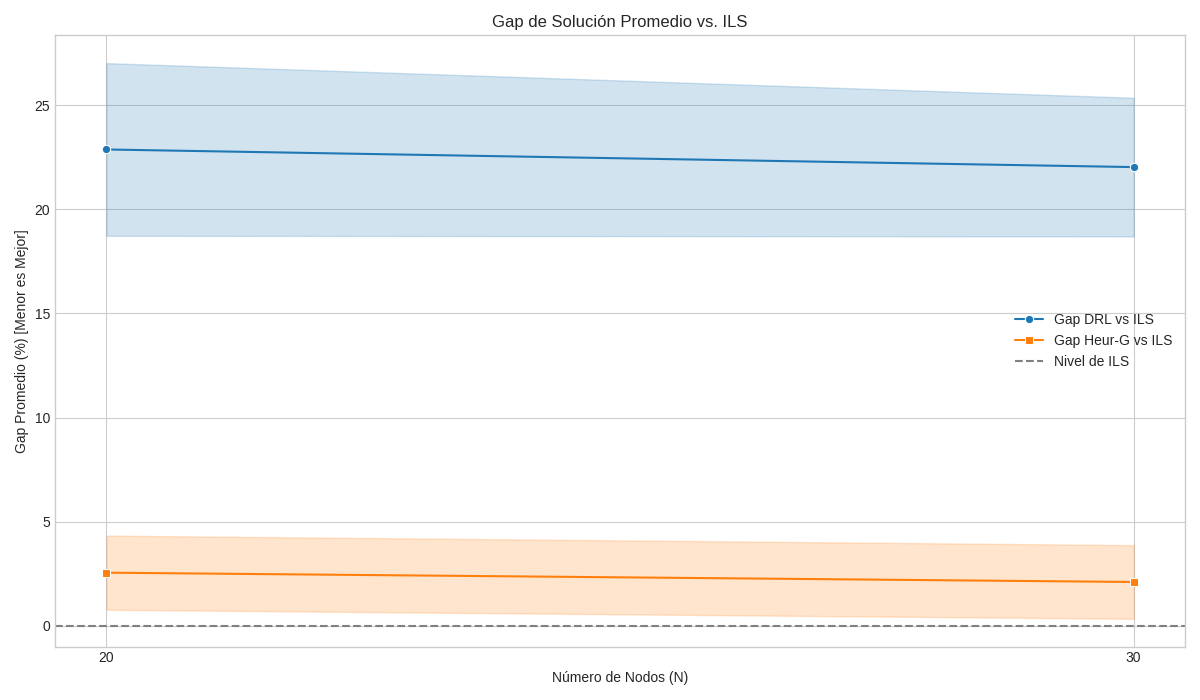
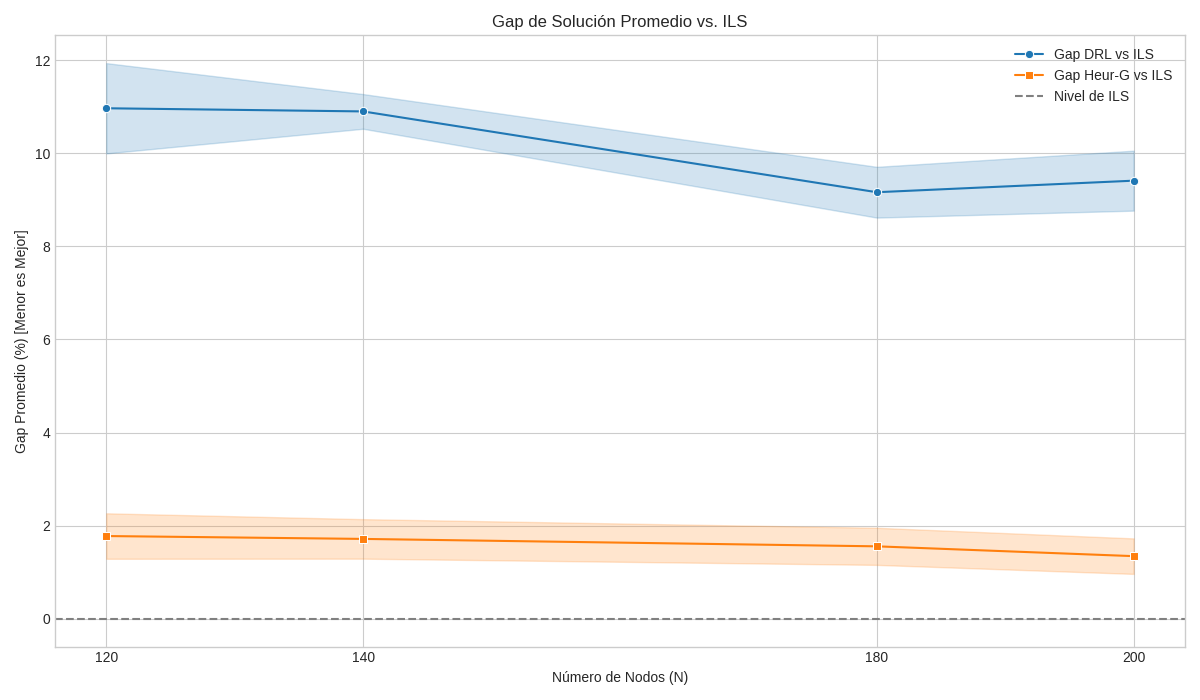
implementación otras arquitecturas gat

diff --git a/src/train_drl_curriculum.py b/src/train_drl_curriculum.py
@@ -1,0 +1,145 @@
+# train_drl.py (con Curriculum Learning)
+
+import torch
+import torch.optim as optim
+from torch.distributions import Categorical
+import numpy as np
+from tqdm import tqdm
+import torch.nn.functional as F
+
+from MAXCUT import MaxCutInstance, generate_random_instance
+from drl_environment import MaxCutDRLEnv
+from drl_model import ActorCriticGAT,ActorCriticGAT_V2,ActorCriticGAT_V3 # O ActorCriticGAT_V2, ActorCriticGAT_V3
+
+# --- Hiperparámetros del Algoritmo ---
+LEARNING_RATE = 3e-5
+GAMMA = 0.99
+ENTROPY_BETA = 0.015
+VALUE_LOSS_COEFF = 0.6
+
+# --- Estrategia de Curriculum Learning ---
+# Formato: (numero_de_episodios_para_la_etapa, tamaño_de_nodos_en_la_etapa)
+CURRICULUM = [
+    (1500, 20),  # Etapa 1: 1500 episodios con grafos de 20 nodos
+    (1500, 30),  # Etapa 2: 1500 episodios con grafos de 30 nodos
+    (2000, 40),   # Etapa 3: 2000 episodios con grafos de 40 nodos. Más episodios para la etapa más difícil.
+    (2000, 50),
+    (3000, 60)
+]
+DENSITY = 0.8 # Densidad de los grafos generados
+
+# --- Setup ---
+device = torch.device("cuda" if torch.cuda.is_available() else "cpu")
+# Elige aquí la arquitectura que quieres entrenar con el currículo
+model = ActorCriticGAT_V3().to(device) 
+optimizer = optim.Adam(model.parameters(), lr=LEARNING_RATE)
+
+print(f"Iniciando entrenamiento con Curriculum Learning en: {device}")
+print(f"Modelo: {model}")
+print(f"Currículo: {CURRICULUM}")
+
+# --- Bucle de Entrenamiento con Currículo ---
+episode_rewards = []
+global_episode_count = 0
+
+# Bucle externo: itera sobre las etapas del currículo
+for num_episodes_stage, num_nodes_stage in CURRICULUM:
+    print(f"\n--- Iniciando Etapa del Currículo: {num_episodes_stage} episodios con N={num_nodes_stage} ---")
+    
+    # Bucle interno: itera sobre los episodios de la etapa actual
+    for episode_in_stage in tqdm(range(num_episodes_stage), desc=f"Etapa N={num_nodes_stage}"):
+        
+        # Generar una nueva instancia con el tamaño de la etapa actual
+        weights = generate_random_instance(num_nodes_stage, density=DENSITY)
+        instance = MaxCutInstance(weights)
+        env = MaxCutDRLEnv(instance)
+        
+        graph_repr = env.reset()
+        
+        # Listas para almacenar los resultados del episodio
+        log_probs = []
+        values = []
+        rewards = []
+        
+        # --- Ejecutar un episodio ---
+        done = False
+        while not done:
+            # Mover datos del grafo al dispositivo
+            x, edge_index, edge_weight = graph_repr
+            x, edge_index, edge_weight = x.to(device), edge_index.to(device), edge_weight.to(device)
+
+            # Obtener el índice del nodo a decidir
+            node_idx = env.get_current_node_to_assign()
+            
+            # Pasar por el modelo para obtener política y valor
+            logits, value = model(x, edge_index, edge_weight, node_idx)
+            
+            # Crear una distribución de probabilidad y muestrear una acción
+            prob_dist = Categorical(logits=logits)
+            action = prob_dist.sample() # Muestreo estocástico
+            
+            # Guardar log-probabilidad y valor
+            log_probs.append(prob_dist.log_prob(action))
+            values.append(value)
+            
+            # Ejecutar la acción en el entorno
+            graph_repr, reward, done = env.step(action.item())
+            rewards.append(reward)
+
+        # --- Fin del episodio: Calcular Pérdida y Actualizar Pesos ---
+        
+        # 1. Calcular Retornos Descontados (G_t)
+        returns = []
+        discounted_reward = 0
+        for r in reversed(rewards):
+            discounted_reward = r + GAMMA * discounted_reward
+            returns.insert(0, discounted_reward)
+        returns = torch.tensor(returns, dtype=torch.float32).to(device)
+        
+        # Normalizar retornos para mayor estabilidad
+        returns = (returns - returns.mean()) / (returns.std() + 1e-8)
+        
+        # 2. Convertir listas a tensores
+        log_probs = torch.stack(log_probs)
+        values = torch.stack(values).squeeze(-1) # Usar squeeze(-1) para evitar errores si el batch es de 1
+
+        # 3. Calcular Ventaja (Advantage) A_t = G_t - V(s_t)
+        advantages = returns - values
+        
+        # 4. Calcular la Pérdida del Actor (Política)
+        actor_loss = -(log_probs * advantages.detach()).mean()
+
+        # 5. Calcular la Pérdida del Crítico (Valor)
+        critic_loss = F.smooth_l1_loss(values, returns)
+        
+        # 6. Calcular la Pérdida de Entropía
+        # prob_dist es la del último paso, necesitamos calcular sobre todas las acciones
+        entropies = prob_dist.entropy()
+        entropy_loss = -entropies.mean()
+
+        # 7. Calcular la Pérdida Total
+        loss = actor_loss + VALUE_LOSS_COEFF * critic_loss + ENTROPY_BETA * entropy_loss
+        
+        # 8. Backpropagation y Optimización
+        optimizer.zero_grad()
+        loss.backward()
+        optimizer.step()
+        
+        # --- Logging ---
+        total_reward = sum(rewards)
+        episode_rewards.append(total_reward)
+        global_episode_count += 1
+        
+        # Imprimir logs cada 50 episodios globales
+        if global_episode_count % 50 == 0:
+            avg_reward = np.mean(episode_rewards[-50:])
+            print(f"Episodio Global {global_episode_count}: Etapa N={num_nodes_stage}, "
+                  f"Loss Total={loss.item():.4f}, "
+                  f"Recompensa Total={total_reward:.2f}, "
+                  f"Recompensa Media (últimos 50)={avg_reward:.2f}")
+
+print("\n--- Entrenamiento Finalizado ---")
+
+# Guardar el modelo entrenado final
+torch.save(model.state_dict(), "drl_curriculum_model.pth")
+print("Modelo entrenado con currículo guardado en 'drl_curriculum_model.pth'")

diff --git a/src/drl_model.py b/src/drl_model.py
@@ -3,7 +3,7 @@
 import torch
 import torch.nn as nn
 import torch.nn.functional as F
-from torch_geometric.nn import GATv2Conv # GATv2 es a menudo más estable que GAT
+from torch_geometric.nn import GATv2Conv, LayerNorm, global_mean_pool # GATv2 es a menudo más estable que GAT
 from drl_features import NODE_FEATURE_DIM
 
 class ActorCriticGAT(nn.Module):
@@ -70,3 +70,108 @@ class ActorCriticGAT(nn.Module):
         state_value = self.value_head(decision_node_embedding)
         
         return action_logits, state_value
+    
+    
+class ActorCriticGAT_V2(nn.Module):
+    """
+    Versión 2: Modelo más profundo con 3 capas GAT y LayerNorm para estabilidad.
+    """
+    def __init__(self, input_dim=NODE_FEATURE_DIM, gat_hidden_dim=128, num_heads=4, output_mlp_dim=128):
+        super(ActorCriticGAT_V2, self).__init__()
+
+        # --- Codificador GAT más profundo ---
+        self.gat1 = GATv2Conv(input_dim, gat_hidden_dim, heads=num_heads, concat=True, dropout=0.1, edge_dim=1)
+        self.norm1 = LayerNorm(gat_hidden_dim * num_heads)
+        
+        self.gat2 = GATv2Conv(gat_hidden_dim * num_heads, gat_hidden_dim, heads=num_heads, concat=True, dropout=0.1, edge_dim=1)
+        self.norm2 = LayerNorm(gat_hidden_dim * num_heads)
+
+        self.gat3 = GATv2Conv(gat_hidden_dim * num_heads, gat_hidden_dim, heads=1, concat=False, dropout=0.1, edge_dim=1)
+        self.norm3 = LayerNorm(gat_hidden_dim)
+
+        # --- Cabezas con mayor capacidad ---
+        self.policy_head = nn.Sequential(
+            nn.Linear(gat_hidden_dim, output_mlp_dim),
+            nn.ReLU(),
+            nn.Linear(output_mlp_dim, 2)
+        )
+        self.value_head = nn.Sequential(
+            nn.Linear(gat_hidden_dim, output_mlp_dim),
+            nn.ReLU(),
+            nn.Linear(output_mlp_dim, 1)
+        )
+
+    def forward(self, x, edge_index, edge_weight, node_to_assign_idx):
+        # Capa 1
+        x = self.gat1(x, edge_index, edge_attr=edge_weight)
+        x = self.norm1(x)
+        x = F.elu(x)
+        x = F.dropout(x, p=0.1, training=self.training)
+        
+        # Capa 2
+        x = self.gat2(x, edge_index, edge_attr=edge_weight)
+        x = self.norm2(x)
+        x = F.elu(x)
+        x = F.dropout(x, p=0.1, training=self.training)
+        
+        # Capa 3
+        node_embeddings = self.gat3(x, edge_index, edge_attr=edge_weight)
+        node_embeddings = self.norm3(node_embeddings)
+
+        decision_node_embedding = node_embeddings[node_to_assign_idx]
+        
+        action_logits = self.policy_head(decision_node_embedding)
+        state_value = self.value_head(decision_node_embedding)
+        
+        return action_logits, state_value
+    
+    
+# En drl_model.py, añade esta otra clase
+
+class ActorCriticGAT_V3(nn.Module):
+    """
+    Versión 3: Modelo que usa un contexto global explícito para la decisión.
+    """
+    def __init__(self, input_dim=NODE_FEATURE_DIM, gat_hidden_dim=128, num_heads=4, output_mlp_dim=64):
+        super(ActorCriticGAT_V3, self).__init__()
+
+        # Codificador (igual al original)
+        self.gat1 = GATv2Conv(input_dim, gat_hidden_dim, heads=num_heads, concat=True, dropout=0.1, edge_dim=1)
+        self.gat2 = GATv2Conv(gat_hidden_dim * num_heads, gat_hidden_dim, heads=1, concat=False, dropout=0.1, edge_dim=1)
+
+        # La entrada a las cabezas ahora es el doble de grande (embedding de nodo + embedding de grafo)
+        decoder_input_dim = gat_hidden_dim * 2
+
+        self.policy_head = nn.Sequential(
+            nn.Linear(decoder_input_dim, output_mlp_dim),
+            nn.ReLU(),
+            nn.Linear(output_mlp_dim, 2)
+        )
+        self.value_head = nn.Sequential(
+            nn.Linear(decoder_input_dim, output_mlp_dim),
+            nn.ReLU(),
+            nn.Linear(output_mlp_dim, 1)
+        )
+
+    def forward(self, x, edge_index, edge_weight, node_to_assign_idx):
+        batch = torch.zeros(x.size(0), dtype=torch.long).to(x.device)
+
+        x = self.gat1(x, edge_index, edge_attr=edge_weight)
+        x = F.elu(x)
+        node_embeddings = self.gat2(x, edge_index, edge_attr=edge_weight)
+
+        # --- CORRECCIÓN AQUÍ ---
+        # Añadir .unsqueeze(0) para convertir el tensor de 1D [features] a 2D [1, features]
+        decision_node_embedding = node_embeddings[node_to_assign_idx].unsqueeze(0)
+
+        global_graph_embedding = global_mean_pool(node_embeddings, batch)
+        
+        global_graph_embedding = global_graph_embedding.repeat(decision_node_embedding.size(0), 1)
+
+        # Ahora ambos tensores son 2D, la concatenación funcionará.
+        combined_embedding = torch.cat([decision_node_embedding, global_graph_embedding], dim=-1)
+
+        action_logits = self.policy_head(combined_embedding)
+        state_value = self.value_head(combined_embedding)
+        
+        return action_logits.squeeze(0), state_value.squeeze(0)

diff --git a/src/drl_agent.py b/src/drl_agent.py
@@ -2,7 +2,7 @@
 
 import torch
 # Asumimos que las siguientes clases y funciones están disponibles
-from drl_model import ActorCriticGAT
+from drl_model import ActorCriticGAT,ActorCriticGAT_V2,ActorCriticGAT_V3
 from drl_features import state_to_graph
 from MAXCUT import MaxCutState, MaxCutEnvironment
 
@@ -16,7 +16,7 @@ class DRLAgent:
             device (str): Dispositivo en el que correr el modelo ('cpu' o 'cuda').
         """
         self.device = torch.device(device)
-        self.model = ActorCriticGAT().to(self.device)
+        self.model = ActorCriticGAT_V3().to(self.device)
         self.model.load_state_dict(torch.load(model_path, map_location=self.device))
         self.model.eval() # Poner el modelo en modo de evaluación
         

diff --git a/src/compare_agents.py b/src/compare_agents.py
@@ -16,10 +16,10 @@ from Agents import GreedyAgent, FirstImprovementAgent, SingleAgentSolver, Pertur
 from drl_agent import DRLAgent
 
 # --- Configuración del Experimento ---
-MODEL_PATH = "drl_actor_critic_model.pth"
+MODEL_PATH = "drl_curriculum_mode_GATv3.pth"
 DEVICE = "cuda" if torch.cuda.is_available() else "cpu"
 
-INSTANCE_SIZES = [20, 30, 40, 50, 60] # Tamaños de grafos a probar
+INSTANCE_SIZES = [120, 140, 180, 200] # Tamaños de grafos a probar
 NUM_INSTANCES_PER_SIZE = 10 # Número de instancias aleatorias por cada tamaño
 DENSITY = 0.8
 MIN_WEIGHT = 1
